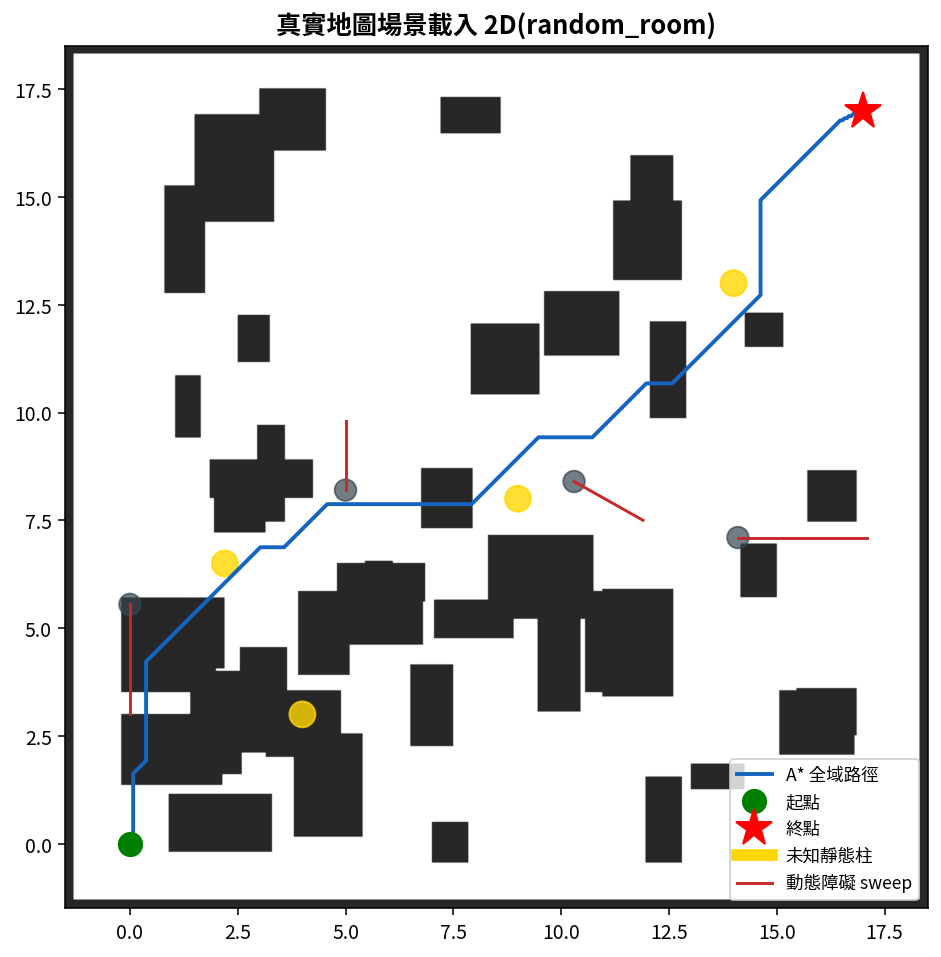
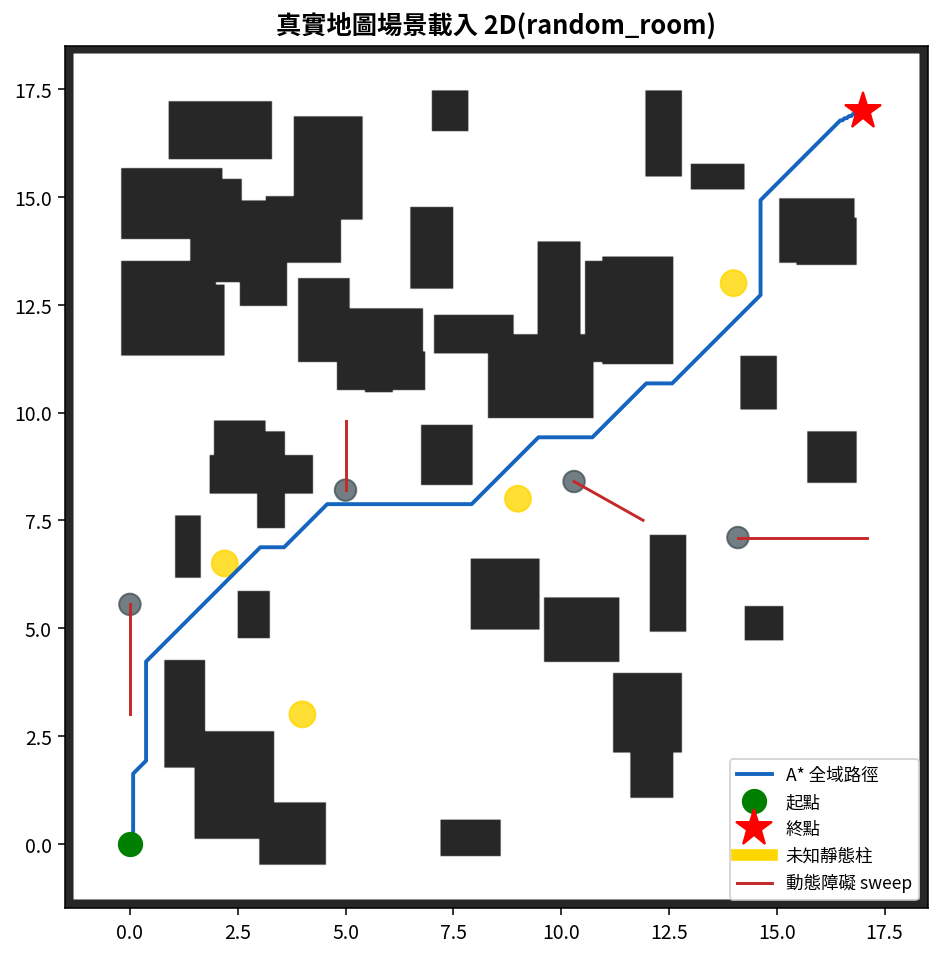
Auto-update: 2026-07-26 18:01

diff --git a/rl_smoothness/scenario.py b/rl_smoothness/scenario.py
@@ -115,7 +115,7 @@ if __name__ == '__main__':
     sc = Scenario()
     fig, ax = plt.subplots(figsize=(8, 8))
     ext = [ORIGIN[0], ORIGIN[0] + sc.W * RES, ORIGIN[1], ORIGIN[1] + sc.H * RES]
-    ax.imshow(sc.occ, cmap='Greys', origin='lower', extent=ext, alpha=0.85)
+    ax.imshow(sc.occ, cmap='Greys', origin='upper', extent=ext, alpha=0.85)
     ax.plot(sc.path[:, 0], sc.path[:, 1], '-', color='#1565c0', lw=2, label='A* 全域路徑')
     ax.plot(*START, 'o', color='green', ms=12, label='起點')
     ax.plot(*GOAL, '*', color='red', ms=20, label='終點')
